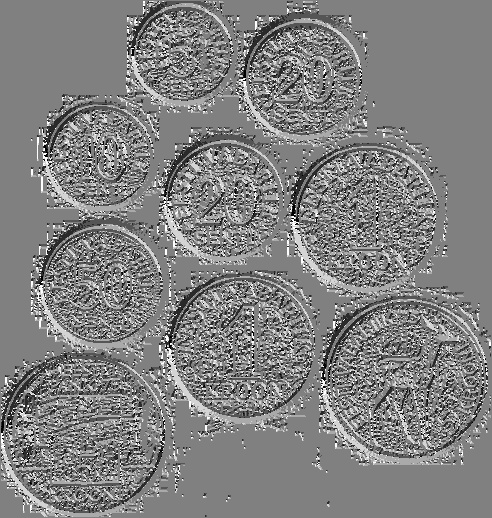
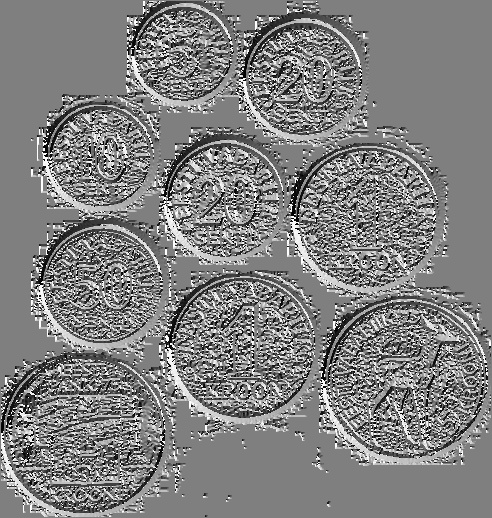
Added hough

Changed region(s): [[0.0, 0.0, 1.0, 1.0]]

diff --git a/main.cpp b/main.cpp
@@ -2,6 +2,9 @@
 
 using namespace cv;
 
+void calculateHough(Mat& magnitude, Mat& direction, int ***hough, int radiusMax);
+void visualiseHough(int ***hough, int rows, int cols, int radiusMax);
+
 int dx[3][3] = {
         {-1, 0, 1},
         {-2, 0, 2},
@@ -13,6 +16,24 @@ int dy[3][3] = {
     {0, 0, 0},
     {1, 2, 1}
 };
+
+const auto PI = std::acos(-1);
+
+int ***malloc3dArray(int dim1, int dim2, int dim3)
+{
+    int i, j, k;
+    int ***array = (int ***) malloc(dim1 * sizeof(int **));
+
+    for (i = 0; i < dim1; i++) {
+        array[i] = (int **) malloc(dim2 * sizeof(int *));
+        for (j = 0; j < dim2; j++) {
+            array[i][j] = (int *) malloc(dim3 * sizeof(int));
+            memset(array[i][j], 0, dim3*sizeof(int));
+        }   
+
+    }
+    return array;
+}
 
 int main( int argc, char** argv )
 {
@@ -41,19 +62,105 @@ int main( int argc, char** argv )
 
     imageWrite(dxImage, "xGradient.jpg");
     imageWrite(dyImage, "yGradient.jpg");
-    // magnitude = imageWrite(magnitude, "magnitudeGradient.jpg");
+    imageWrite(magnitude, "magnitudeGradient.jpg");
     imageWrite(direction, "directionGradient.jpg");
+    
+    int rows = magnitude.rows;
+    int cols = magnitude.cols;
+    int radiusMax = 150;
 
+    int*** hough = malloc3dArray(rows, cols, radiusMax);
 
-    for(int x = 0; x < magnitude.rows; x++) {	
-		for(int y = 0; y < magnitude.cols; y++) {
-            if(magnitude.at<float>(x, y) > 300)
+    magnitude = imageWrite(magnitude, "magnitudeGradient.jpg");
+    // normalize(magnitude, magnitude, 0, 255, cv::NORM_MINMAX);
+
+    for(int x = 0; x < rows; x++) {	
+		for(int y = 0; y < cols; y++) {
+            if(magnitude.at<float>(x, y) > 60)
                 magnitude.at<float>(x, y) = 255;
             else
                 magnitude.at<float>(x, y) = 0;
         }
     }
 
+    calculateHough(magnitude, direction, hough, radiusMax);
+
+    visualiseHough(hough, rows, cols, radiusMax);
+
     imageWrite(magnitude, "magnitudeGradientThreshold.jpg");
+
     return 0;
+}
+
+void visualiseHough(int ***hough, int rows, int cols, int radiusMax) {
+
+    Mat houghImage = Mat(rows, cols, CV_32FC1, Scalar(0));
+
+    printf("Cols: %d, Rows: %d\n", cols, rows);
+
+    for(int x = 1; x < rows-1; x++) {	
+        for(int y = 1; y < cols-1; y++) {
+            float result = 0;
+            int max = 0;
+            for(int r = 0; r < radiusMax; r++) {
+                result += hough[x][y][r];
+                if(hough[x][y][r] > max) max = hough[x][y][r];
+            }
+        
+            // Colapse the 3d Hough transform into 2d
+            houghImage.at<float>(x,y) = result;
+            float temp = houghImage.at<float>(x,y);
+            // printf("Result is: %f and hough is: %f, max is %d\n", result, temp, max);
+        }
+    }
+
+    imageWrite(houghImage, "houghSpace.jpg");
+}
+
+void calculateHough(Mat& magnitude, Mat& direction, int ***hough, int radiusMax) {
+    int rows = magnitude.rows;
+    int cols = magnitude.cols;
+
+    for(int x = 1; x < magnitude.rows - 1; x++) {	
+        for(int y = 1; y < magnitude.cols - 1; y++) {
+
+            if(magnitude.at<float>(x,y) <= 10)
+                continue;
+
+            float dir = direction.at<float>(x,y);
+
+            for(int radius = 10; radius < radiusMax - 10; radius++) {
+
+                int x0p = x + radius * cos(dir);
+                int x0m = x - radius * cos(dir);
+
+                int y0p = y + radius * sin(dir);
+                int y0m = y - radius * sin(dir);
+
+                // X+ Y+
+                if(x0p >= 0 && x0p < rows && y0p >= 0 && y0p < cols) {
+                    hough[x0p][y0p][radius - 10] += 1;
+                }
+
+                // X+ Y-
+                if(x0p >= 0 && x0p < rows && y0m >= 0 && y0m < cols) {
+                    hough[x0p][y0m][radius - 10] += 1;
+                }
+
+                // X- Y+
+                if(x0m >= 0 && x0m < rows && y0p >= 0 && y0p < cols) {
+                    hough[x0m][y0p][radius - 10] += 1;
+                }
+
+                // X- Y-
+                if(x0m >= 0 && x0m < rows && y0m >= 0 && y0m < cols) {
+                    hough[x0m][y0m][radius - 10] += 1;
+                }
+
+            }
+            
+        }
+            // printf("%d ", t);
+    }
+
 }

diff --git a/Sobel.cpp b/Sobel.cpp
@@ -47,8 +47,8 @@ using namespace cv;
 // }
 
 Mat imageWrite(Mat &image, std::string imagename){
-    Mat output = Mat(image.size(), CV_BGR2GRAY);
-    normalize(image, output, 0, 255, cv::NORM_MINMAX);
+    Mat output = Mat(image.size(), image.type());
+    normalize(image, output, 0, 255, NORM_MINMAX);
 
     imwrite(imagename, output);
 
@@ -61,9 +61,10 @@ Mat calculateGradientMagnitude(Mat &dx, Mat &dy) {
 
      for(int x = 1; x < mag.rows - 1; x++) {	
 		for(int y = 1; y < mag.cols - 1; y++) {
-            float result = sqrt(pow(dx.at<float>(x,y), 2) + pow(dy.at<float>(x,y), 2));
+            float dxx = dx.at<float>(x,y);
+            float dyy = dy.at<float>(x,y);
 
-            mag.at<float>(x,y) = result;
+            mag.at<float>(x,y) =  sqrt(dxx*dxx + dyy*dyy);
         }
      }
 
@@ -76,7 +77,7 @@ Mat calculateGradientDirection(Mat &dx, Mat &dy) {
 
     for(int x = 1; x < dir.rows - 1; x++) {	
         for(int y = 1; y < dir.cols - 1; y++) {
-            int result = atan2(dy.at<float>(x,y),  dx.at<float>(x,y));
+            float result = atan2(dy.at<float>(x,y),  dx.at<float>(x,y));
 
             dir.at<float>(x,y) = result;
         }
@@ -91,7 +92,7 @@ Mat applyKernel(int kernel[3][3], Mat &originalImage) {
 
     for(int x = 1; x < originalImage.rows - 1; x++) {	
 		for(int y = 1; y < originalImage.cols - 1; y++) {
-			float result = 0;
+			float result = 0.0;
 
             for(int xOffset = -1; xOffset <= 1; xOffset++) {
                 for(int yOffset = -1; yOffset <= 1; yOffset++) {
